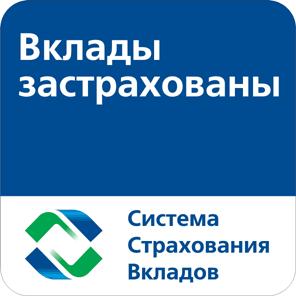
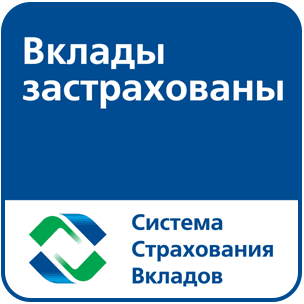
dep_ins stroke, size

diff --git a/public/index.html b/public/index.html
@@ -48,7 +48,7 @@
         </div>
         <section id="calculator" class="block fullwidth">
             <a name="calculator"></a>
-            <img id="img-insured" src="images/dep-ins.png" width="158"/>
+            <img id="img-insured" src="images/dep-ins.png" width="140"/>
             <form action="/echo" method="post">
                 <label for="area-field" class="left-label">Я хочу вложить</label>
                 <input type="text" name="area-info" id="calc_summ" value="300 000"></input>
